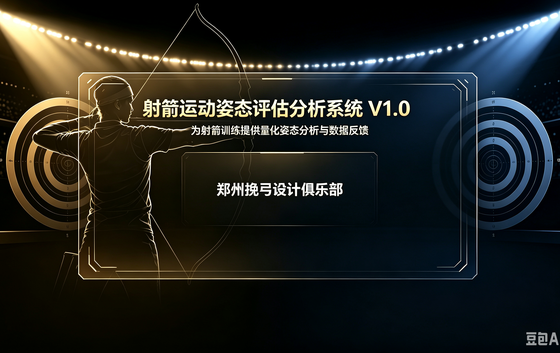
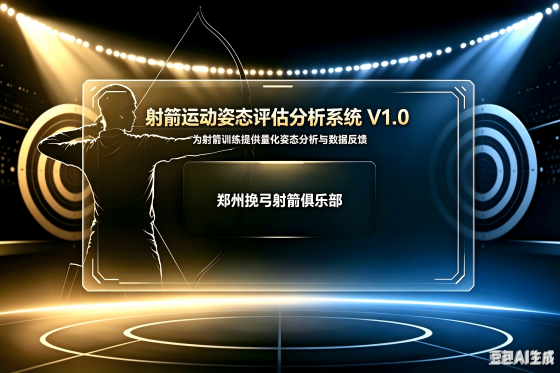
feat: 顶部菜单改为射手助力，视频教学跳转射箭链接，隐藏翻译、原版官网入口，配套资源与工程修改

diff --git a/Kinovea/Kernel.cs b/Kinovea/Kernel.cs
@@ -1,4 +1,4 @@
-#region Licence
+#region Licence
 /*
 Copyright � Joan Charmant 2008-2009.
 jcharmant@gmail.com 
@@ -493,13 +493,14 @@ namespace Kinovea.Root
             mnuAbout.Image = Properties.Resources.information;
 
             mnuHelpContents.Click += mnuHelpContents_OnClick;
-            mnuTranslate2.Click += (s, e) => Process.Start("https://hosted.weblate.org/engage/kinovea/");
+ //           mnuTranslate2.Click += (s, e) => Process.Start("https://hosted.weblate.org/engage/kinovea/");
+            mnuTranslate2.Click += (s, e) => Process.Start("https://emoego.com/archery/");
             mnuApplicationFolder.Click += (s, e) =>
             {
                 FilesystemHelper.LocateDirectory(Software.SettingsDirectory);
             };
             mnuEnableDebugLogs.Click += (s, e) => ToggleDebugLogs();
-            mnuWebsite.Click += (s,e) => Process.Start("https://www.kinovea.org");
+            mnuWebsite.Click += (s,e) => Process.Start("https://emoego.com/archery/");
             mnuAbout.Click += new EventHandler(mnuAbout_OnClick);
 
             mnuHelp.DropDownItems.AddRange(new ToolStripItem[] { 
@@ -606,11 +607,15 @@ namespace Kinovea.Root
             mnuHelp.Text = RootLang.mnuHelp;
             mnuHelpContents.Text = RootLang.mnuHelpContents;
             mnuTranslate2.Text = RootLang.mnuTranslate;
+            mnuTranslate2.Visible = false;
             mnuApplicationFolder.Text = RootLang.mnuOpenApplicationDataFolder;
             mnuEnableDebugLogs.Text = PreferencesManager.GeneralPreferences.EnableDebugLog ? RootLang.mnuDisableDebugLogs : RootLang.mnuEnableDebugLogs;
-            mnuWebsite.Text = "www.kinovea.org";
+            mnuWebsite.Text = "官网定制";
             mnuAbout.Text = RootLang.mnuAbout;
             mnuHelp.Text = RootLang.mnuHelp;
+            mnuAbout.Visible = false;
+            mnuTranslate1.Visible = false;
+            
         }
         #endregion
 
@@ -913,7 +918,7 @@ namespace Kinovea.Root
         {
             // Open online help.
             // Currently only English is supported.
-            Process.Start("https://www.kinovea.org/help/en/");
+            Process.Start("https://emoego.com/archery");
         }
 
         private void ToggleDebugLogs()

diff --git a/Kinovea.FileBrowser/UserInterface/FileBrowserUserInterface.Designer.cs b/Kinovea.FileBrowser/UserInterface/FileBrowserUserInterface.Designer.cs
@@ -1,4 +1,4 @@
-namespace Kinovea.FileBrowser
+namespace Kinovea.FileBrowser
 {
     partial class FileBrowserUserInterface
     {
@@ -125,8 +125,9 @@ namespace Kinovea.FileBrowser
       this.etExplorer.Cursor = System.Windows.Forms.Cursors.Default;
       this.etExplorer.Location = new System.Drawing.Point(3, 31);
       this.etExplorer.Name = "etExplorer";
-      this.etExplorer.RootDisplayName = "Bureau";
-      this.etExplorer.ShowHiddenFolders = false;
+ //     this.etExplorer.RootDisplayName = "Bureau";
+      this.etExplorer.RootDisplayName = "桌面";
+            this.etExplorer.ShowHiddenFolders = false;
       this.etExplorer.ShowRootLines = false;
       this.etExplorer.Size = new System.Drawing.Size(299, 267);
       this.etExplorer.TabIndex = 0;
